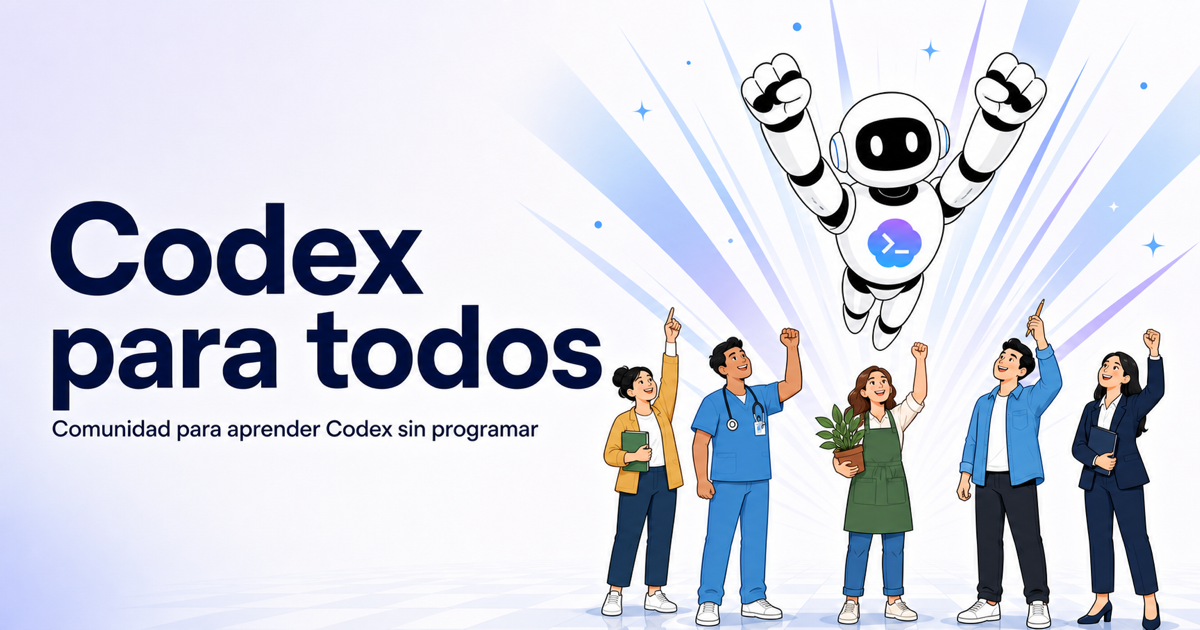
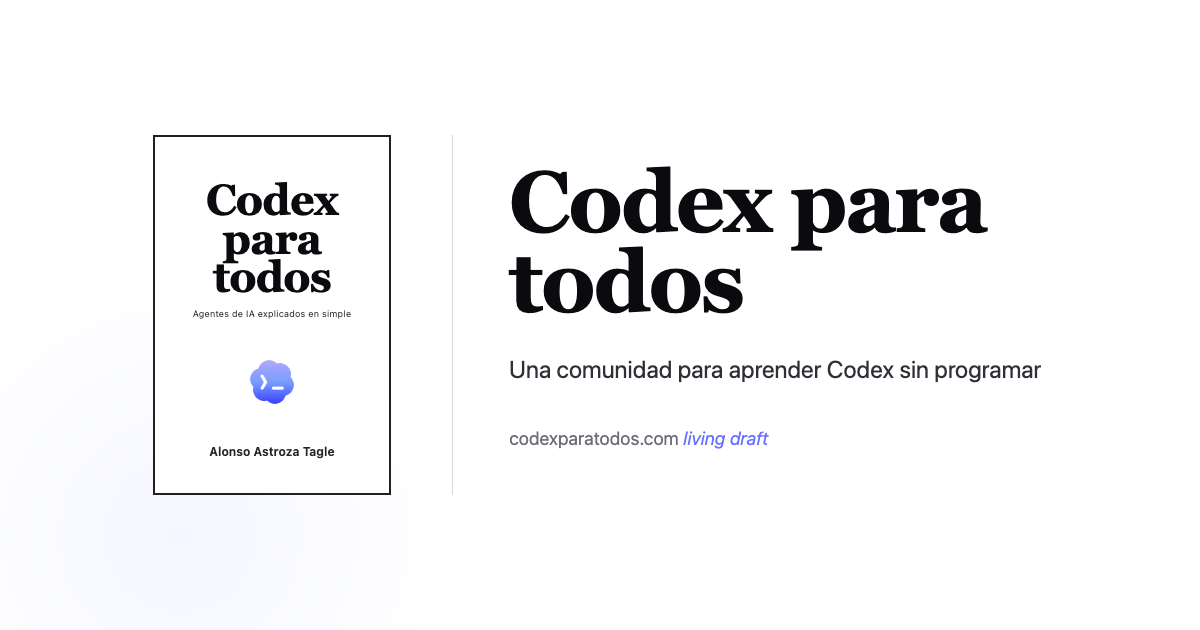
Add README and refresh OG card

diff --git a/README.md b/README.md
@@ -1,0 +1,21 @@
+# Codex para todos
+
+Landing page de la comunidad **Codex para todos**, creada para compartir recursos, encuentros y formas simples de aprender a trabajar con Codex sin ser programador.
+
+## Desarrollo
+
+```bash
+npm install
+npm run dev
+```
+
+El sitio queda disponible en `http://127.0.0.1:4321/`.
+
+## Build y despliegue
+
+```bash
+npm run build
+npm run deploy
+```
+
+El proyecto está construido con Astro y se despliega en Cloudflare Pages.